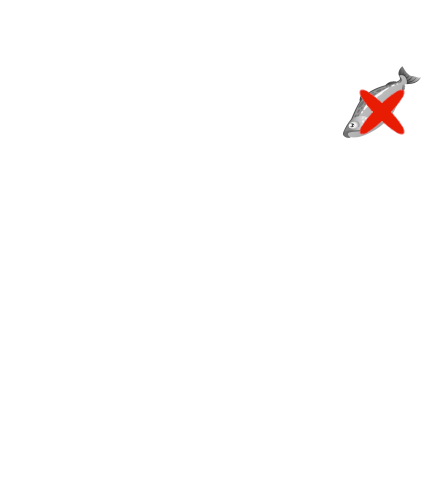
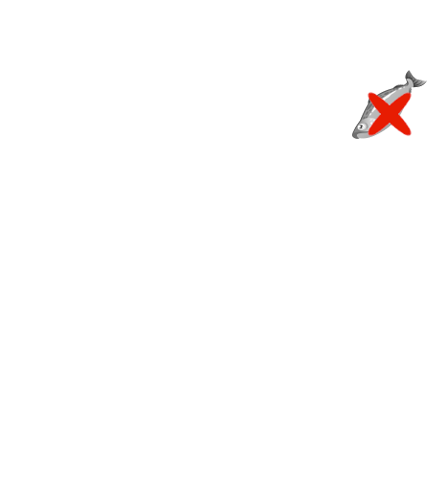
Alimentos MainFridge

Changed region(s): [[0.7699, 0.124, 0.9772, 0.3099]]

diff --git a/src/app/components/movile-components/pages/fridge/main-fridge/main-fridge.component.ts b/src/app/components/movile-components/pages/fridge/main-fridge/main-fridge.component.ts
@@ -18,6 +18,21 @@ export class MainFridgeComponent implements OnInit {
   left:number;
 
   mapCoorPescado: string;
+  mapCoorCarne: string;
+  mapCoorSalchicha: string;
+  mapCoorPollo: string;
+  mapCoorHuevos: string;
+  mapCoorZanahoria: string;
+  mapCoorPimiento: string;
+  mapCoorPepino: string;
+  mapCoorColiflor: string;
+  mapCoorBroccoli: string;
+  mapCoorCherry: string;
+  mapCoorManzana: string;
+  mapCoorPlatano: string;
+  mapCoorMelon: string;
+  mapCoorPera: string;
+
 
   constructor(
   ) { 
@@ -50,19 +65,172 @@ export class MainFridgeComponent implements OnInit {
 
   calcularMapArea(){
     this.calcularPescado();
-
+    this.calcularCarne();
+    this.calcularSalchicha();
+    this.calcularPollo();
+    this.calcularHuevos();
+    this.calcularZanahoria();
+    this.calcularPimiento();
+    this.calcularPepino();
+    this.calcularColiflor();
+    this.calcularBroccoli();
+    this.calcularCherry();
+    this.calcularManzana();
+    this.calcularPlatano();
+    this.calcularMelon();
+    this.calcularPera();
   }
 
   calcularPescado(){
     let coord1x, coord1y, coord2x, coord2y;
 
-coord1x = Math.round( this.width * 0.77 ); coord1y = Math.round( this.height * 0.13 ); coord2x = Math.round( this.width * 0.97 ); coord2y = Math.round( this.height * 0.29 ); 
+    coord1x = Math.round( this.width * 0.79 ); coord1y = Math.round( this.height * 0.14 ); coord2x = Math.round( this.width * 0.97 ); coord2y = Math.round( this.height * 0.29 ); 
 
-let mapCoord = [ coord1x, coord1y, coord2x, coord2y];
+    let mapCoord = [ coord1x, coord1y, coord2x, coord2y];
 
-this.mapCoorPescado = mapCoord.reduce( (v_ant, v_act, index,)=>{if(index ==0 ) return v_ant += `${v_act} `;else  return v_ant += `,${v_act} `;}, '');
-
+    this.mapCoorPescado = mapCoord.reduce( (v_ant, v_act, index,)=>{if(index ==0 ) return v_ant += `${v_act} `;else  return v_ant += `,${v_act} `;}, '');
   }
+
+  calcularCarne(){
+    let coord1x, coord1y, coord2x, coord2y;
+
+    coord1x = Math.round( this.width * 0.6 ); coord1y = Math.round( this.height * 0.16 ); coord2x = Math.round( this.width * 0.78 ); coord2y = Math.round( this.height * 0.29 ); 
+
+    let mapCoord = [ coord1x, coord1y, coord2x, coord2y];
+
+    this.mapCoorCarne = mapCoord.reduce( (v_ant, v_act, index,)=>{if(index ==0 ) return v_ant += `${v_act} `;else  return v_ant += `,${v_act} `;}, '');
+  }
+
+  calcularSalchicha(){
+    let coord1x, coord1y, coord2x, coord2y;
+
+    coord1x = Math.round( this.width * 0.44 ); coord1y = Math.round( this.height * 0.16 ); coord2x = Math.round( this.width * 0.59 ); coord2y = Math.round( this.height * 0.29 ); 
+
+    let mapCoord = [ coord1x, coord1y, coord2x, coord2y];
+
+    this.mapCoorSalchicha = mapCoord.reduce( (v_ant, v_act, index,)=>{if(index ==0 ) return v_ant += `${v_act} `;else  return v_ant += `,${v_act} `;}, '');
+  }
+
+  calcularPollo(){
+    let coord1x, coord1y, coord2x, coord2y;
+
+    coord1x = Math.round( this.width * 0.23 ); coord1y = Math.round( this.height * 0.15 ); coord2x = Math.round( this.width * 0.43 ); coord2y = Math.round( this.height * 0.29 ); 
+
+    let mapCoord = [ coord1x, coord1y, coord2x, coord2y];
+
+    this.mapCoorPollo = mapCoord.reduce( (v_ant, v_act, index,)=>{if(index ==0 ) return v_ant += `${v_act} `;else  return v_ant += `,${v_act} `;}, '');
+  }
+
+  calcularHuevos(){
+    let coord1x, coord1y, coord2x, coord2y;
+
+    coord1x = Math.round( this.width * 0.03 ); coord1y = Math.round( this.height * 0.17 ); coord2x = Math.round( this.width * 0.21 ); coord2y = Math.round( this.height * 0.29 ); 
+
+    let mapCoord = [ coord1x, coord1y, coord2x, coord2y];
+
+    this.mapCoorHuevos = mapCoord.reduce( (v_ant, v_act, index,)=>{if(index ==0 ) return v_ant += `${v_act} `;else  return v_ant += `,${v_act} `;}, '');
+  }
+
+  calcularZanahoria(){
+    let coord1x, coord1y, coord2x, coord2y;
+
+    coord1x = Math.round( this.width * 0.82 ); coord1y = Math.round( this.height * 0.38 ); coord2x = Math.round( this.width * 0.97 ); coord2y = Math.round( this.height * 0.53 ); 
+
+    let mapCoord = [ coord1x, coord1y, coord2x, coord2y];
+
+    this.mapCoorZanahoria = mapCoord.reduce( (v_ant, v_act, index,)=>{if(index ==0 ) return v_ant += `${v_act} `;else  return v_ant += `,${v_act} `;}, '');
+  }
+
+  calcularPimiento(){
+    let coord1x, coord1y, coord2x, coord2y;
+
+    coord1x = Math.round( this.width * 0.65 ); coord1y = Math.round( this.height * 0.39 ); coord2x = Math.round( this.width * 0.8 ); coord2y = Math.round( this.height * 0.53 ); 
+
+    let mapCoord = [ coord1x, coord1y, coord2x, coord2y];
+
+    this.mapCoorPimiento = mapCoord.reduce( (v_ant, v_act, index,)=>{if(index ==0 ) return v_ant += `${v_act} `;else  return v_ant += `,${v_act} `;}, '');
+  }
+
+  calcularPepino(){
+    let coord1x, coord1y, coord2x, coord2y;
+
+    coord1x = Math.round( this.width * 0.45 ); coord1y = Math.round( this.height * 0.38 ); coord2x = Math.round( this.width * 0.63 ); coord2y = Math.round( this.height * 0.53 ); 
+
+    let mapCoord = [ coord1x, coord1y, coord2x, coord2y];
+
+    this.mapCoorPepino = mapCoord.reduce( (v_ant, v_act, index,)=>{if(index ==0 ) return v_ant += `${v_act} `;else  return v_ant += `,${v_act} `;}, '');
+  }
+
+  calcularColiflor(){
+    let coord1x, coord1y, coord2x, coord2y;
+
+    coord1x = Math.round( this.width * 0.25 ); coord1y = Math.round( this.height * 0.38 ); coord2x = Math.round( this.width * 0.43 ); coord2y = Math.round( this.height * 0.55 ); 
+
+    let mapCoord = [ coord1x, coord1y, coord2x, coord2y];
+
+    this.mapCoorColiflor = mapCoord.reduce( (v_ant, v_act, index,)=>{if(index ==0 ) return v_ant += `${v_act} `;else  return v_ant += `,${v_act} `;}, '');
+  }
+
+  calcularBroccoli(){
+    let coord1x, coord1y, coord2x, coord2y;
+
+    coord1x = Math.round( this.width * 0.04 ); coord1y = Math.round( this.height * 0.38 ); coord2x = Math.round( this.width * 0.23 ); coord2y = Math.round( this.height * 0.54 ); 
+
+    let mapCoord = [ coord1x, coord1y, coord2x, coord2y];
+
+    this.mapCoorBroccoli = mapCoord.reduce( (v_ant, v_act, index,)=>{if(index ==0 ) return v_ant += `${v_act} `;else  return v_ant += `,${v_act} `;}, '');
+  }
+
+  calcularCherry(){
+    let coord1x, coord1y, coord2x, coord2y;
+
+    coord1x = Math.round( this.width * 0.83 ); coord1y = Math.round( this.height * 0.63 ); coord2x = Math.round( this.width * 0.96 ); coord2y = Math.round( this.height * 0.76 ); 
+
+    let mapCoord = [ coord1x, coord1y, coord2x, coord2y];
+
+    this.mapCoorCherry = mapCoord.reduce( (v_ant, v_act, index,)=>{if(index ==0 ) return v_ant += `${v_act} `;else  return v_ant += `,${v_act} `;}, '');
+  }
+
+  calcularManzana(){
+    let coord1x, coord1y, coord2x, coord2y;
+
+    coord1x = Math.round( this.width * 0.64 ); coord1y = Math.round( this.height * 0.62 ); coord2x = Math.round( this.width * 0.81 ); coord2y = Math.round( this.height * 0.76 ); 
+
+    let mapCoord = [ coord1x, coord1y, coord2x, coord2y];
+
+    this.mapCoorManzana = mapCoord.reduce( (v_ant, v_act, index,)=>{if(index ==0 ) return v_ant += `${v_act} `;else  return v_ant += `,${v_act} `;}, '');
+  }
+
+  calcularPlatano(){
+    let coord1x, coord1y, coord2x, coord2y;
+
+    coord1x = Math.round( this.width * 0.45 ); coord1y = Math.round( this.height * 0.61 ); coord2x = Math.round( this.width * 0.61 ); coord2y = Math.round( this.height * 0.76 ); 
+
+    let mapCoord = [ coord1x, coord1y, coord2x, coord2y];
+
+    this.mapCoorPlatano = mapCoord.reduce( (v_ant, v_act, index,)=>{if(index ==0 ) return v_ant += `${v_act} `;else  return v_ant += `,${v_act} `;}, '');
+  }
+
+  calcularMelon(){
+    let coord1x, coord1y, coord2x, coord2y;
+
+    coord1x = Math.round( this.width * 0.25 ); coord1y = Math.round( this.height * 0.59 ); coord2x = Math.round( this.width * 0.43 ); coord2y = Math.round( this.height * 0.76 ); 
+    
+    let mapCoord = [ coord1x, coord1y, coord2x, coord2y];
+    
+    this.mapCoorMelon = mapCoord.reduce( (v_ant, v_act, index,)=>{if(index ==0 ) return v_ant += `${v_act} `;else  return v_ant += `,${v_act} `;}, '');
+  }
+
+  calcularPera(){
+    let coord1x, coord1y, coord2x, coord2y;
+
+    coord1x = Math.round( this.width * 0.06 ); coord1y = Math.round( this.height * 0.58 ); coord2x = Math.round( this.width * 0.22 ); coord2y = Math.round( this.height * 0.76 ); 
+    
+    let mapCoord = [ coord1x, coord1y, coord2x, coord2y];
+    
+    this.mapCoorPera = mapCoord.reduce( (v_ant, v_act, index,)=>{if(index ==0 ) return v_ant += `${v_act} `;else  return v_ant += `,${v_act} `;}, '');
+  }
+  
 
   //A largo(X) B ancho(y)
   toStringCoor(ptoA, ptoB, ptoC, ptoD){

diff --git a/src/app/model/alimentos/alimentosMainFridge.ts b/src/app/model/alimentos/alimentosMainFridge.ts
@@ -5,5 +5,90 @@ export let AlimentosMainFridge: Array<Alimento> = [
         rutaEmpty:"assets/img/main/pescado-cruz.png", 
         cantidad: 0
     },
+    {
+        nombreId: "Carne",
+        rutaOk:"assets/img/main/carne.png",
+        rutaEmpty:"assets/img/main/carne-cruz.png",
+        cantidad: 1
+    },
+    {
+        nombreId: "Salchicha",
+        rutaOk:"assets/img/main/salchicha.png",
+        rutaEmpty:"assets/img/main/salchicha-cruz.png",
+        cantidad: 2
+    },
+    {
+        nombreId: "Pollo",
+        rutaOk:"assets/img/main/pollo.png",
+        rutaEmpty:"assets/img/main/pollo-cruz.png",
+        cantidad: 0
+    },
+    {
+        nombreId: "Huevos",
+        rutaOk:"assets/img/main/huevos.png",
+        rutaEmpty:"assets/img/main/huevos-cruz.png",
+        cantidad: 6
+    },
+    {
+        nombreId: "Zanahoria",
+        rutaOk:"assets/img/main/zanahoria.png",
+        rutaEmpty:"assets/img/main/zanahoria-cruz.png",
+        cantidad: 1
+    },
+    {
+        nombreId: "Pimiento",
+        rutaOk:"assets/img/main/pimiento.png",
+        rutaEmpty:"assets/img/main/pimiento-cruz.png",
+        cantidad: 2
+    },
+    {
+        nombreId: "Pepino",
+        rutaOk:"assets/img/main/pepino.png",
+        rutaEmpty:"assets/img/main/pepino-cruz.png",
+        cantidad: 0
+    },
+    {
+        nombreId: "Coliflor",
+        rutaOk:"assets/img/main/coliflor.png",
+        rutaEmpty:"assets/img/main/coliflor-cruz.png",
+        cantidad: 0
+    },
+    {
+        nombreId: "Broccoli",
+        rutaOk:"assets/img/main/broccoli.png",
+        rutaEmpty:"assets/img/main/broccoli-cruz.png",
+        cantidad: 2
+    },
+    {
+        nombreId: "Cherry",
+        rutaOk:"assets/img/main/cherry.png",
+        rutaEmpty:"assets/img/main/cherry-cruz.png",
+        cantidad: 0
+    },
+    {
+        nombreId: "Manzana",
+        rutaOk:"assets/img/main/manzana.png",
+        rutaEmpty:"assets/img/main/manzana-cruz.png",
+        cantidad: 3
+    },
+    {
+        nombreId: "Platano",
+        rutaOk:"assets/img/main/platano.png",
+        rutaEmpty:"assets/img/main/platano-cruz.png",
+        cantidad: 1
+    },
+    {
+        nombreId: "Melon",
+        rutaOk:"assets/img/main/melon.png",
+        rutaEmpty:"assets/img/main/melon-cruz.png",
+        cantidad: 2
+    },
+    {
+        nombreId: "Pera",
+        rutaOk:"assets/img/main/pera.png",
+        rutaEmpty:"assets/img/main/pera-cruz.png",
+        cantidad: 0
+    },
+
 
 ];

diff --git a/src/app/components/movile-components/pages/fridge/main-fridge/main-fridge.component.html b/src/app/components/movile-components/pages/fridge/main-fridge/main-fridge.component.html
@@ -5,6 +5,49 @@
               <!--pescado-->
               <area shape="rect"
               [attr.coords]="mapCoorPescado" class="pointer">
+              <!--carne-->
+              <area shape="rect"
+              [attr.coords]="mapCoorCarne" class="pointer">
+              <!--salchicha-->
+              <area shape="rect"
+              [attr.coords]="mapCoorSalchicha" class="pointer">
+              <!--pollo-->
+              <area shape="rect"
+              [attr.coords]="mapCoorPollo" class="pointer">
+              <!--huevos-->
+              <area shape="rect"
+              [attr.coords]="mapCoorHuevos" class="pointer">
+              <!--zanahoria-->
+              <area shape="rect"
+              [attr.coords]="mapCoorZanahoria" class="pointer">
+              <!--pimiento-->
+              <area shape="rect"
+              [attr.coords]="mapCoorPimiento" class="pointer">
+              <!--pepino-->
+              <area shape="rect"
+              [attr.coords]="mapCoorPepino" class="pointer">
+              <!--coliflor-->
+              <area shape="rect"
+              [attr.coords]="mapCoorColiflor" class="pointer">
+              <!--broccoli-->
+              <area shape="rect"
+              [attr.coords]="mapCoorBroccoli" class="pointer">
+              <!--cherry-->
+              <area shape="rect"
+              [attr.coords]="mapCoorCherry" class="pointer">
+              <!--manzana-->
+              <area shape="rect"
+              [attr.coords]="mapCoorManzana" class="pointer">
+              <!--platano-->
+              <area shape="rect"
+              [attr.coords]="mapCoorPlatano" class="pointer">
+              <!--melon-->
+              <area shape="rect"
+              [attr.coords]="mapCoorMelon" class="pointer">
+              <!--pera-->
+              <area shape="rect"
+              [attr.coords]="mapCoorPera" class="pointer">
+
 
       
           
